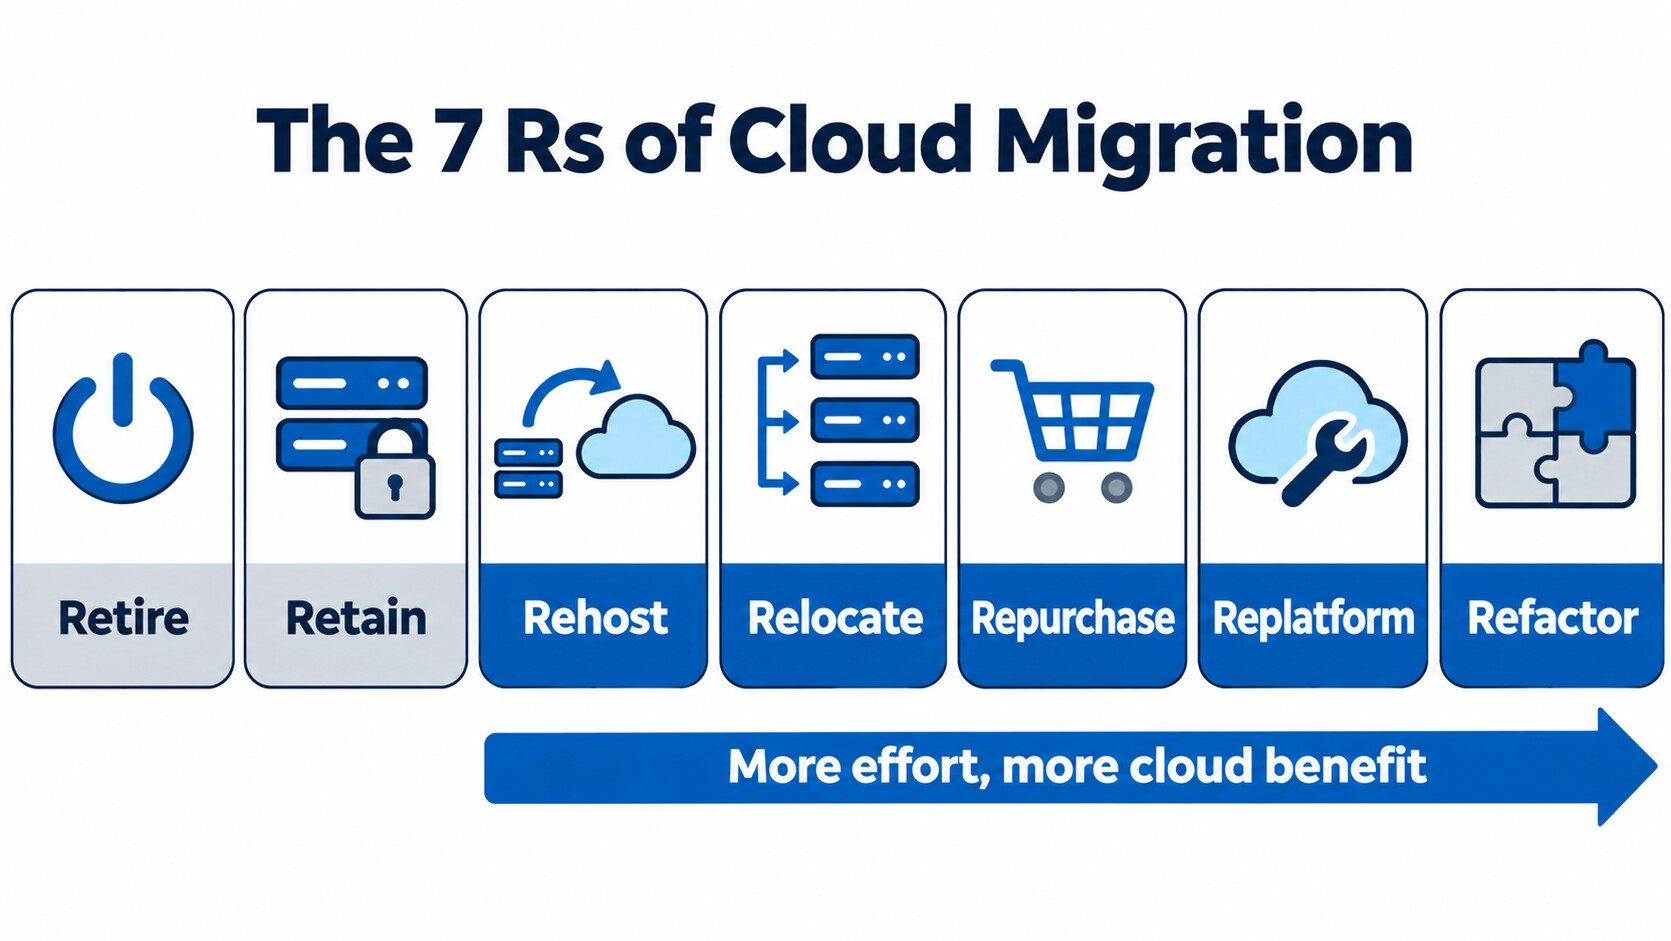
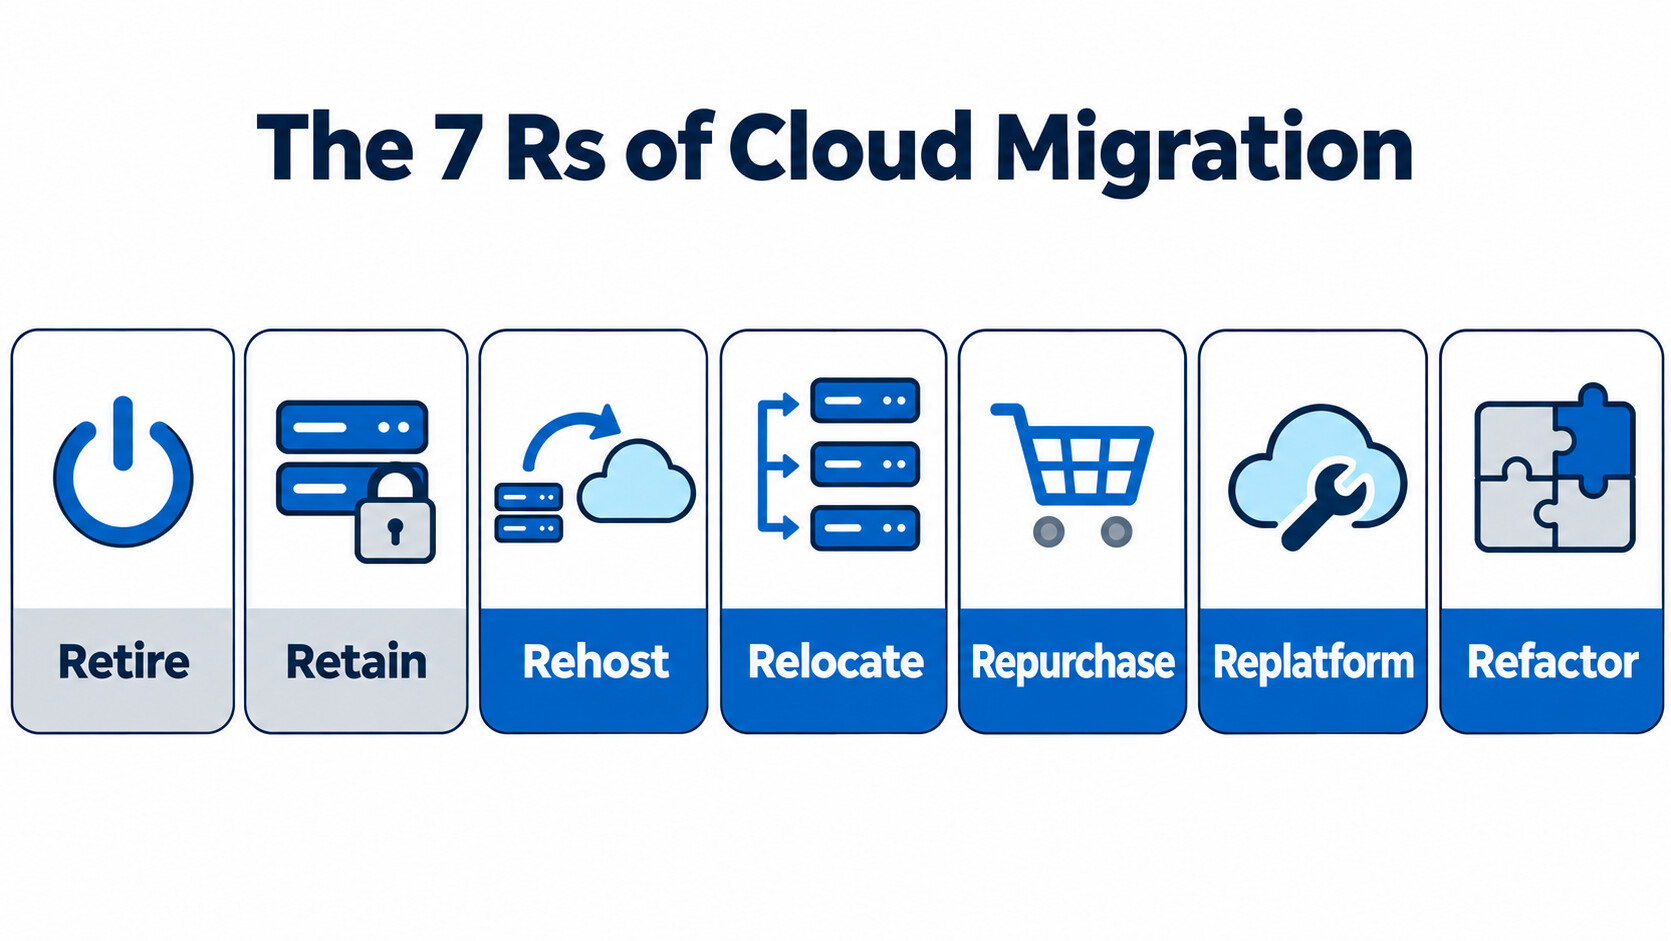
1.01 What is Cloud Computing: fact fixes from the outline review (Relocate quickest, CAF owners, catalog, elasticity), provider comparison as bullets, 7 Rs graphic without the effort arrow

Changed region(s): [[0.0, 0.3082, 1.0, 0.8937], [0.1556, 0.0925, 0.8402, 0.2157]]

diff --git a/1.01-what-is-cloud-computing/PART4.md b/1.01-what-is-cloud-computing/PART4.md
@@ -18,18 +18,18 @@ When a company moves to the cloud, each application gets its own decision. AWS d
 | **Replatform** ("lift, tinker and shift") | Move it, with a few changes that use managed services | Moving a self-managed database to Amazon RDS |
 | **Refactor** (re-architect) | Redesign the application to use cloud-native services | Splitting a monolith into Lambda functions |
 
-Effort and benefit grow together: **Rehost** is the fastest, and **Refactor** takes the most work and gains the most from the cloud.
+AWS calls **Relocate** the quickest way to migrate and run a workload in the cloud, because the architecture doesn't change. **Refactor** is the most complex and costly strategy, and it is the one that uses cloud-native features fully. For large migrations, AWS recommends rehosting, relocating or replatforming first, and modernizing later.
 
 ## AWS Cloud Adoption Framework (AWS CAF)
 
-Moving to the cloud changes more than the technology. The **AWS Cloud Adoption Framework (AWS CAF)** groups what an organization has to prepare into six **perspectives**.
+Moving to the cloud changes more than the technology. The **AWS Cloud Adoption Framework (AWS CAF)** groups what an organization has to prepare into six **perspectives**. A common way to read them is as three business perspectives and three technical ones. AWS notes that People bridges the two.
 
 ![The six perspectives of the AWS Cloud Adoption Framework](images/caf-perspectives.jpg)
 
 | | Perspective | Focus | Typical owners |
 |---|---|---|---|
 | Business side | **Business** | Cloud investments support the business goals | CEO, CFO, CIO |
-| | **People** | Culture, organization structure, skills and training | HR, team leaders |
+| | **People** | Culture, organization structure, skills and training | CIO, COO, CTO, cross-functional leaders |
 | | **Governance** | Managing projects, risk and cost | CIO, CFO, risk and compliance managers |
 | Technical side | **Platform** | Building a scalable cloud platform and modernizing workloads | CTO, architects, engineers |
 | | **Security** | Confidentiality, integrity and availability of data and workloads | CISO, security engineers |
@@ -38,14 +38,14 @@ Moving to the cloud changes more than the technology. The **AWS Cloud Adoption F
 ## Check yourself
 
 1. Your team moves a self-managed MySQL server to Amazon RDS, with no change to the application code. Which of the 7 Rs is it?
-2. Which strategy is the fastest way to move an application, and which gains the most from the cloud?
+2. Which strategy does AWS call the quickest, and which is the most complex?
 3. Which AWS CAF perspective covers skills and training?
 
 <details>
 <summary>Answers</summary>
 
 1. **Replatform.** The application moves with a small change that uses a managed service.
-2. **Rehost** is the fastest. **Refactor** gains the most, and takes the most work.
+2. **Relocate** is the quickest, because the architecture doesn't change. **Refactor** is the most complex and costly.
 3. **People.**
 
 </details>

diff --git a/1.01-what-is-cloud-computing/PART1.md b/1.01-what-is-cloud-computing/PART1.md
@@ -10,7 +10,7 @@ Instead of buying servers and running your own data center, you rent what you ne
 |---|---|---|
 | **Getting a server** | Order hardware, wait weeks, install it | A few clicks or one command, ready in minutes |
 | **Paying** | Up front, for the capacity you might need | As you go, for what you use |
-| **Too much capacity** | You already paid for it | Turn it off and stop paying |
+| **Too much capacity** | You already paid for it | Delete it, and most charges stop |
 | **Too little capacity** | Order more hardware and wait | Add more in minutes |
 | **Who runs the buildings, power and hardware** | You | The provider |
 
@@ -18,11 +18,21 @@ Three ideas come back in every chapter of this course:
 
 - **On demand:** you get a resource when you ask for it, with no purchase process.
 - **Over the internet:** you reach it from anywhere, through the Console, the CLI or code.
-- **Pay as you go:** you pay for what you use, and you stop paying when you delete it.
+- **Pay as you go:** you pay for what you use. For most resources, the charges stop when you delete them.
 
 ## AWS, Microsoft Azure and Google Cloud
 
-AWS is one of three large public cloud providers, next to **Microsoft Azure** and **Google Cloud**. All three sell the same building blocks under different names: virtual servers (Amazon EC2, Azure Virtual Machines, Google Compute Engine), object storage (Amazon S3, Azure Blob Storage, Google Cloud Storage), managed databases, networking and identity. They differ mostly in where they are strongest. AWS started first, in 2006, and has the widest catalog of services. Azure fits organizations that already run Microsoft products, such as Windows Server, Active Directory and Microsoft 365. Google Cloud is known for data analytics, machine learning and Kubernetes, which Google created. This course uses AWS, but everything in this chapter is true for all three, so what you learn here carries over.
+AWS is one of three large public cloud providers, next to **Microsoft Azure** and **Google Cloud**.
+
+- **The same building blocks, different names:**
+  - Virtual servers: Amazon EC2, Azure Virtual Machines, Google Compute Engine.
+  - Object storage: Amazon S3, Azure Blob Storage, Google Cloud Storage.
+  - All three also offer managed databases, networking and identity.
+- **Where each is strongest:**
+  - **AWS** started first, in 2006, and has one of the largest catalogs of services.
+  - **Azure** fits organizations that already run Microsoft products, such as Windows Server, Active Directory and Microsoft 365.
+  - **Google Cloud** is known for data analytics, machine learning and Kubernetes, which Google created.
+- **What carries over:** this course uses AWS, but everything in this chapter is true for all three.
 
 ## The five core characteristics
 

diff --git a/1.01-what-is-cloud-computing/PART3.md b/1.01-what-is-cloud-computing/PART3.md
@@ -5,12 +5,12 @@
 A cloud service takes work away from you. How much depends on the **service model**:
 
 - **IaaS (Infrastructure as a Service):** the provider runs the data center, the hardware and the virtualization. You manage the operating system and everything above it. Example: Amazon EC2.
-- **PaaS (Platform as a Service):** the provider also runs the operating system and the runtime. You bring your code and your data. Example: AWS Elastic Beanstalk.
+- **PaaS (Platform as a Service):** the provider also runs the operating system and the runtime. You bring your code and your data. Example: AWS Elastic Beanstalk, which AWS describes as commonly categorized as PaaS. You can still reach the servers it creates.
 - **SaaS (Software as a Service):** the provider runs everything. You use the finished product. Example: web-based email.
 
 ![Who manages what in each service model](images/who-manages-what.jpg)
 
-Read the picture from left to right: every step to the right gives you less to manage, and less control.
+Read the picture from left to right: every step to the right gives you less to manage, and less control. The picture shows the typical split; each service has its own details.
 
 The next chapter, [1.02 Cloud Models](../1.02-cloud-models/README.md), covers the service models and the deployment models (public, private, hybrid) in detail.
 

diff --git a/1.01-what-is-cloud-computing/PART2.md b/1.01-what-is-cloud-computing/PART2.md
@@ -25,9 +25,9 @@ The two words are close, and people often mix them up.
 
 | | Scalability | Elasticity |
 |---|---|---|
-| **The question it answers** | Can the system handle more load if I give it more resources? | Does the system add and remove resources by itself as the load changes? |
+| **The question it answers** | Can the system handle more load if I give it more resources? | Can the system add and remove resources quickly as the load changes? |
 | **Direction** | Usually up or out, as the business grows | Up **and** down, following demand |
-| **Time frame** | Planned, long term | Automatic, short term |
+| **Time frame** | Usually planned, long term | Short term, often automatic |
 | **Example** | Moving a database to a larger instance | Auto Scaling adds servers at 09:00 and removes them at night |
 
 Scaling has two directions:
